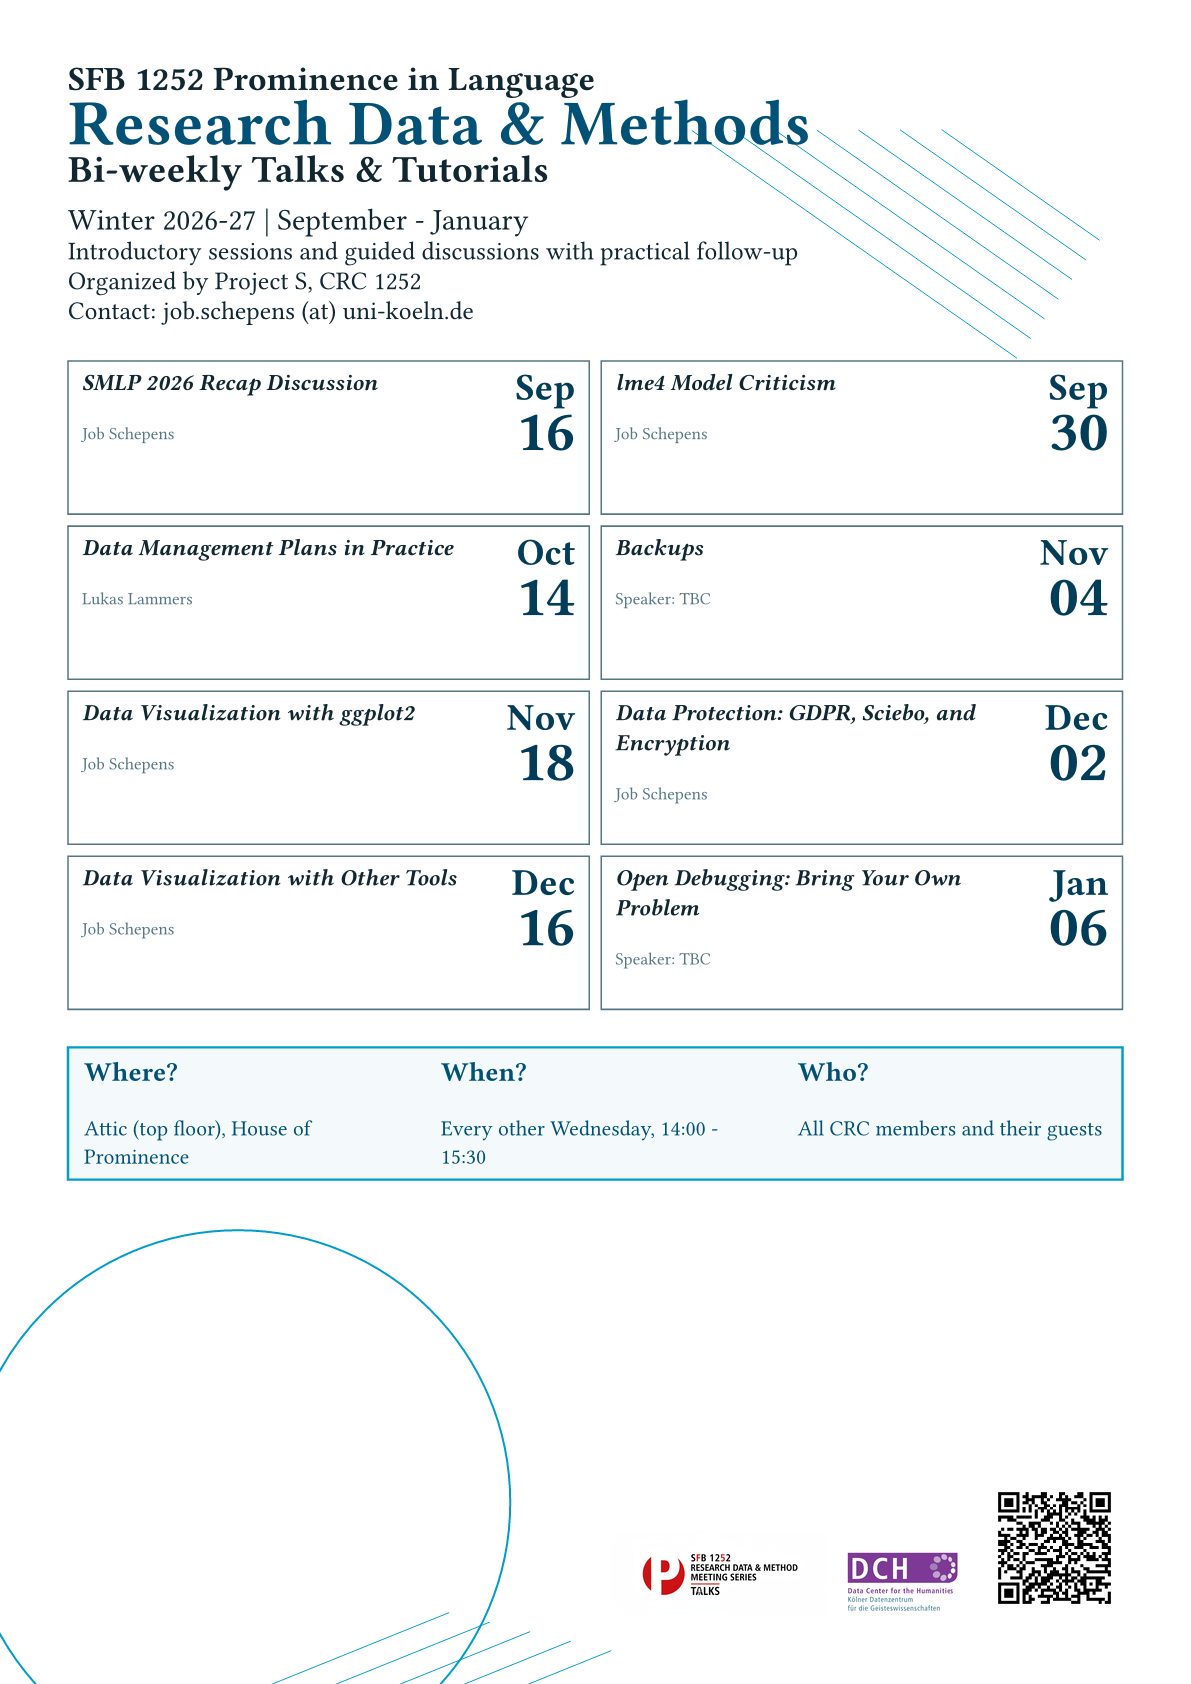
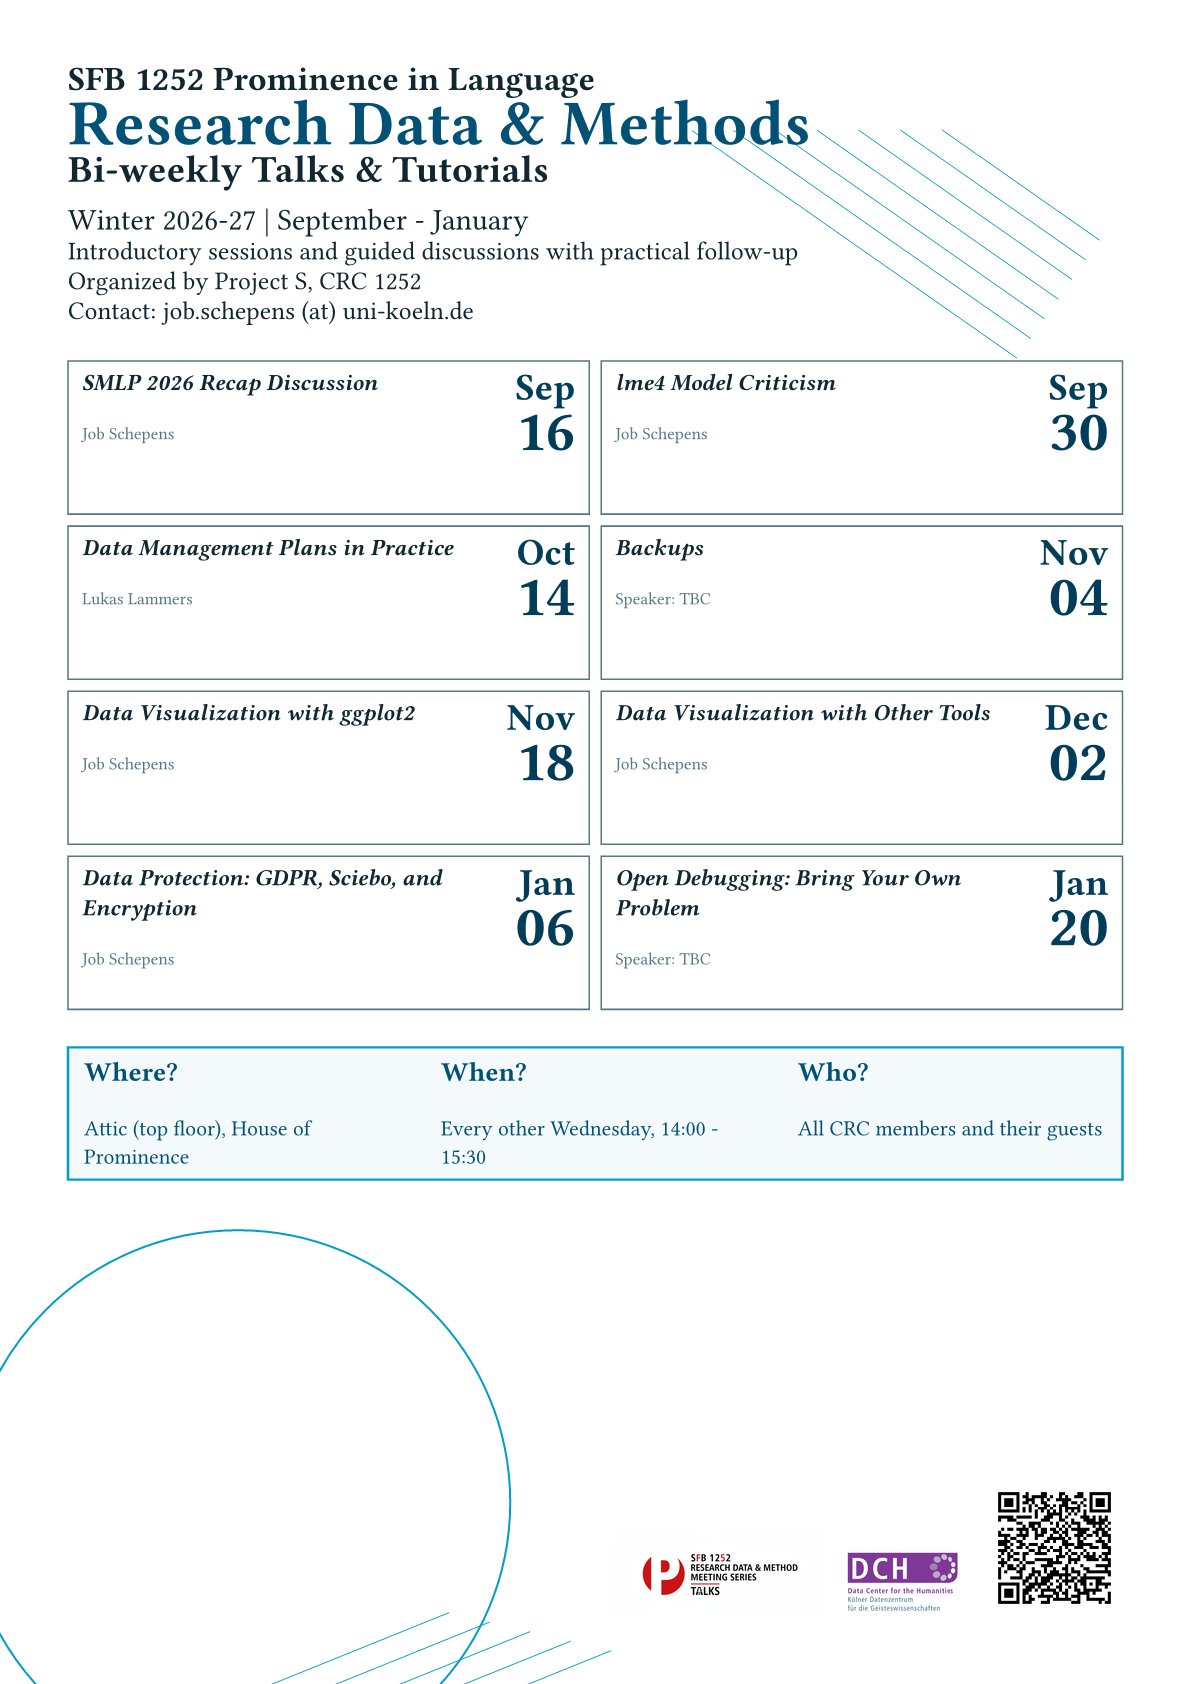
vcv

diff --git a/docs/index.md b/docs/index.md
@@ -47,9 +47,9 @@ Workshops on research methodology, data management, and academic practices for g
   <div data-session-number="28" data-session-series="Winter 2026-27 Workshops" data-session-series-order="4" data-session-title="Data Management Plans in Practice" data-session-summary="Practical, funder-aligned data management plans for research projects" data-session-date="2026-10-14" data-session-url="agenda/winter-2026-27-schedule.md"></div>
   <div data-session-number="27" data-session-series="Winter 2026-27 Workshops" data-session-series-order="4" data-session-title="lme4 Model Criticism" data-session-summary="Diagnostics, assumptions, model comparison, and robust interpretation for lme4 models" data-session-date="2026-09-30" data-session-url="agenda/winter-2026-27-schedule.md"></div>
   <div data-session-number="29" data-session-series="Winter 2026-27 Workshops" data-session-series-order="4" data-session-title="Backups" data-session-summary="Practical backup plans, versioned snapshots, restore testing, and routine automation" data-session-date="2026-11-04" data-session-url="agenda/winter-2026-27-schedule.md"></div>
-  <div data-session-number="31" data-session-series="Winter 2026-27 Workshops" data-session-series-order="4" data-session-title="Data Protection: GDPR, Sciebo, and Encryption" data-session-summary="GDPR-aligned workflows, secure sharing via Sciebo, and encryption basics" data-session-date="2026-12-02" data-session-url="agenda/winter-2026-27-schedule.md"></div>
-  <div data-session-number="32" data-session-series="Winter 2026-27 Workshops" data-session-series-order="4" data-session-title="Data Visualization with Other Tools" data-session-summary="Alternative data visualization tools and their applications in research" data-session-date="2026-12-16" data-session-url="agenda/winter-2026-27-schedule.md"></div>
-  <div data-session-number="33" data-session-series="Winter 2026-27 Workshops" data-session-series-order="4" data-session-title="Open Debugging: Bring Your Own Problem" data-session-summary="Collaborative troubleshooting across R, Python, Git, and document workflows" data-session-date="2027-01-06" data-session-url="agenda/winter-2026-27-schedule.md"></div>
+  <div data-session-number="32" data-session-series="Winter 2026-27 Workshops" data-session-series-order="4" data-session-title="Data Visualization with Other Tools" data-session-summary="Alternative data visualization tools and their applications in research" data-session-date="2026-12-02" data-session-url="agenda/winter-2026-27-schedule.md"></div>
+  <div data-session-number="31" data-session-series="Winter 2026-27 Workshops" data-session-series-order="4" data-session-title="Data Protection: GDPR, Sciebo, and Encryption" data-session-summary="GDPR-aligned workflows, secure sharing via Sciebo, and encryption basics" data-session-date="2027-01-06" data-session-url="agenda/winter-2026-27-schedule.md"></div>
+  <div data-session-number="33" data-session-series="Winter 2026-27 Workshops" data-session-series-order="4" data-session-title="Open Debugging: Bring Your Own Problem" data-session-summary="Collaborative troubleshooting across R, Python, Git, and document workflows" data-session-date="2027-01-20" data-session-url="agenda/winter-2026-27-schedule.md"></div>
 </div>
 
 ---

diff --git a/docs/agenda/winter-2026-27-schedule.md b/docs/agenda/winter-2026-27-schedule.md
@@ -67,23 +67,23 @@ Add the current schedule to your calendar:
 **Speaker:** Job Schepens
 **Focus:** Core ggplot2 grammar, clean figure design, plotting mistakes, uncertainty, model-based plots, publication-ready figures
 
-### 31. Data Protection: GDPR, Sciebo, and Encryption
+### 32. Data Visualization with Other Tools
 
 **Date:** 2 December 2026
 **Time:** 14:00 - 15:30
 **Speaker:** Job Schepens
-**Focus:** Handling sensitive data with GDPR-aligned workflows, secure sharing via Sciebo, and encryption basics
+**Focus:** Introduction to alternative data visualization tools and their applications in research
 
-### 32. Data Visualization with Other Tools
+### 31. Data Protection: GDPR, Sciebo, and Encryption
 
-**Date:** 16 December 2026
+**Date:** 6 January 2027
 **Time:** 14:00 - 15:30
 **Speaker:** Job Schepens
-**Focus:** Introduction to alternative data visualization tools and their applications in research
+**Focus:** Handling sensitive data with GDPR-aligned workflows, secure sharing via Sciebo, and encryption basics
 
 ### 33. Open Debugging: Bring Your Own Problem
 
-**Date:** 6 January 2027
+**Date:** 20 January 2027
 **Time:** 14:00 - 15:30
 **Speaker:** TBC
 **Focus:** Collaborative troubleshooting across R, Python, Git, and document workflows
